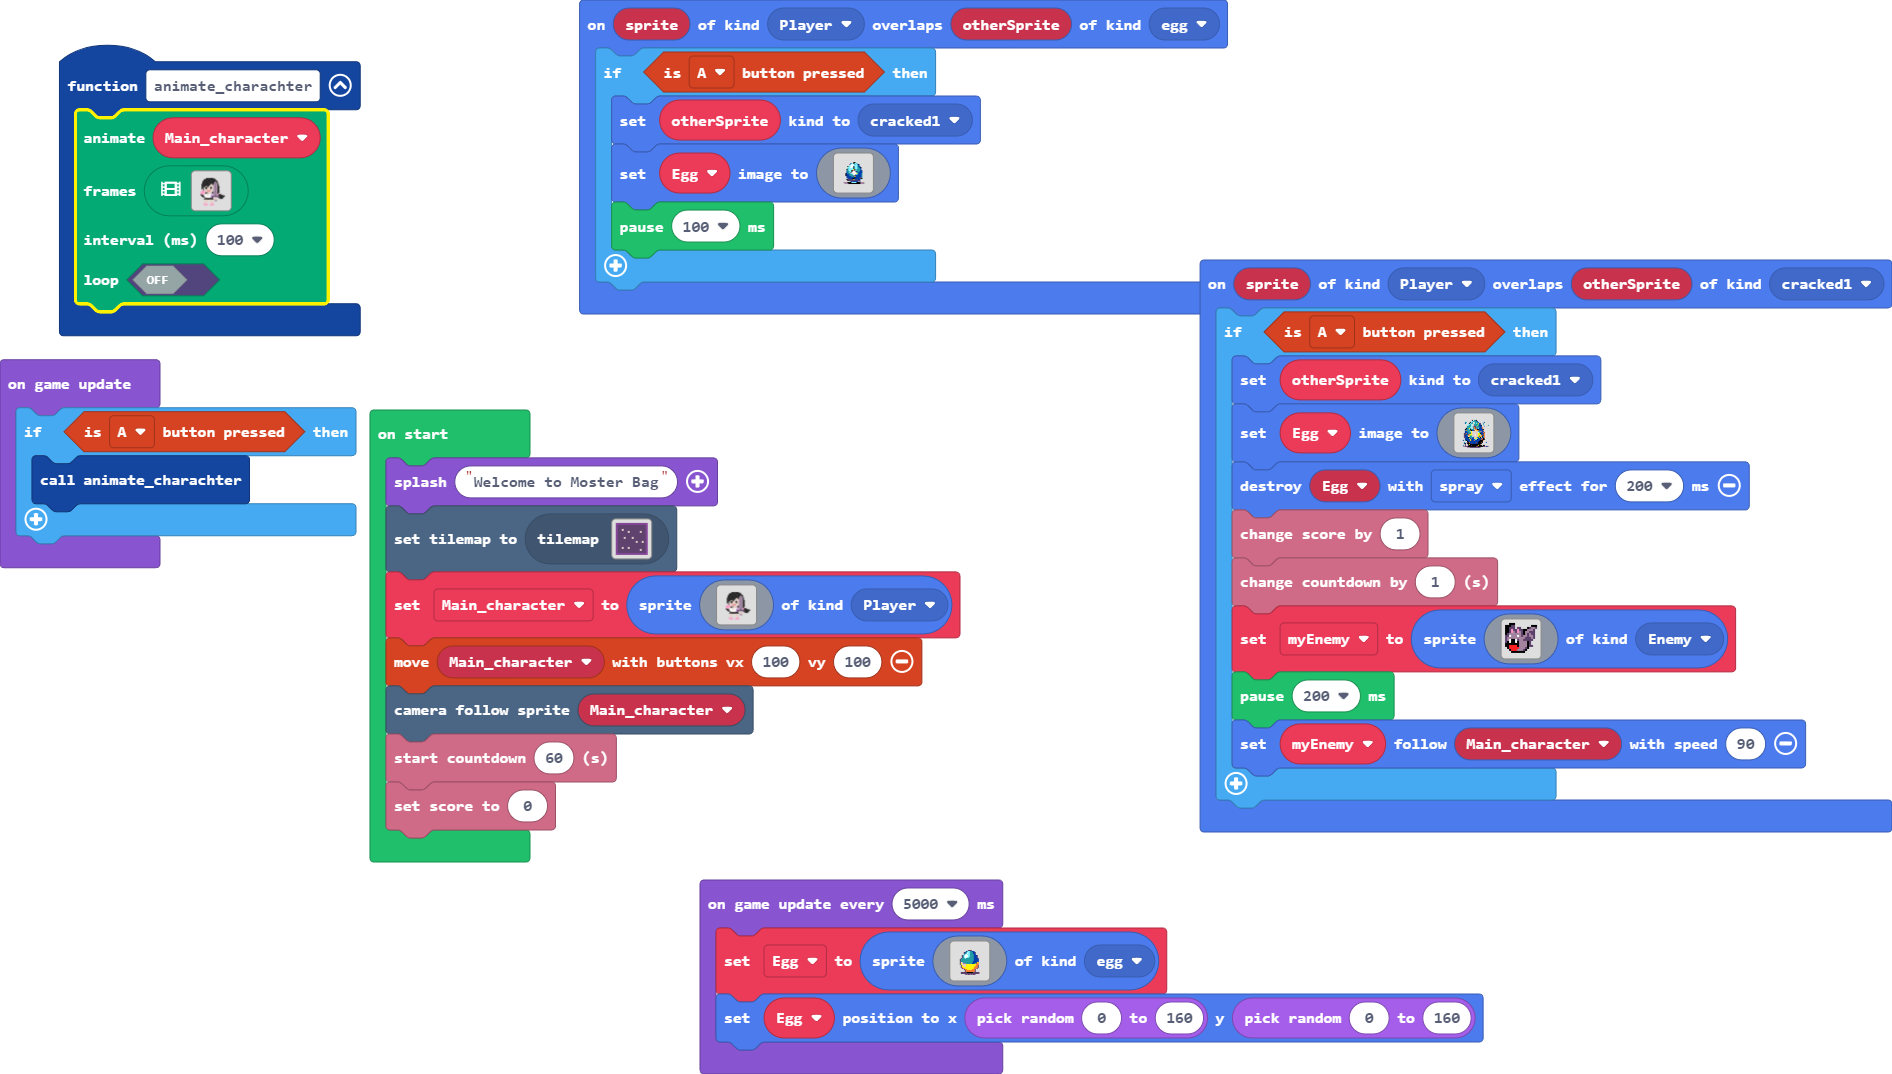
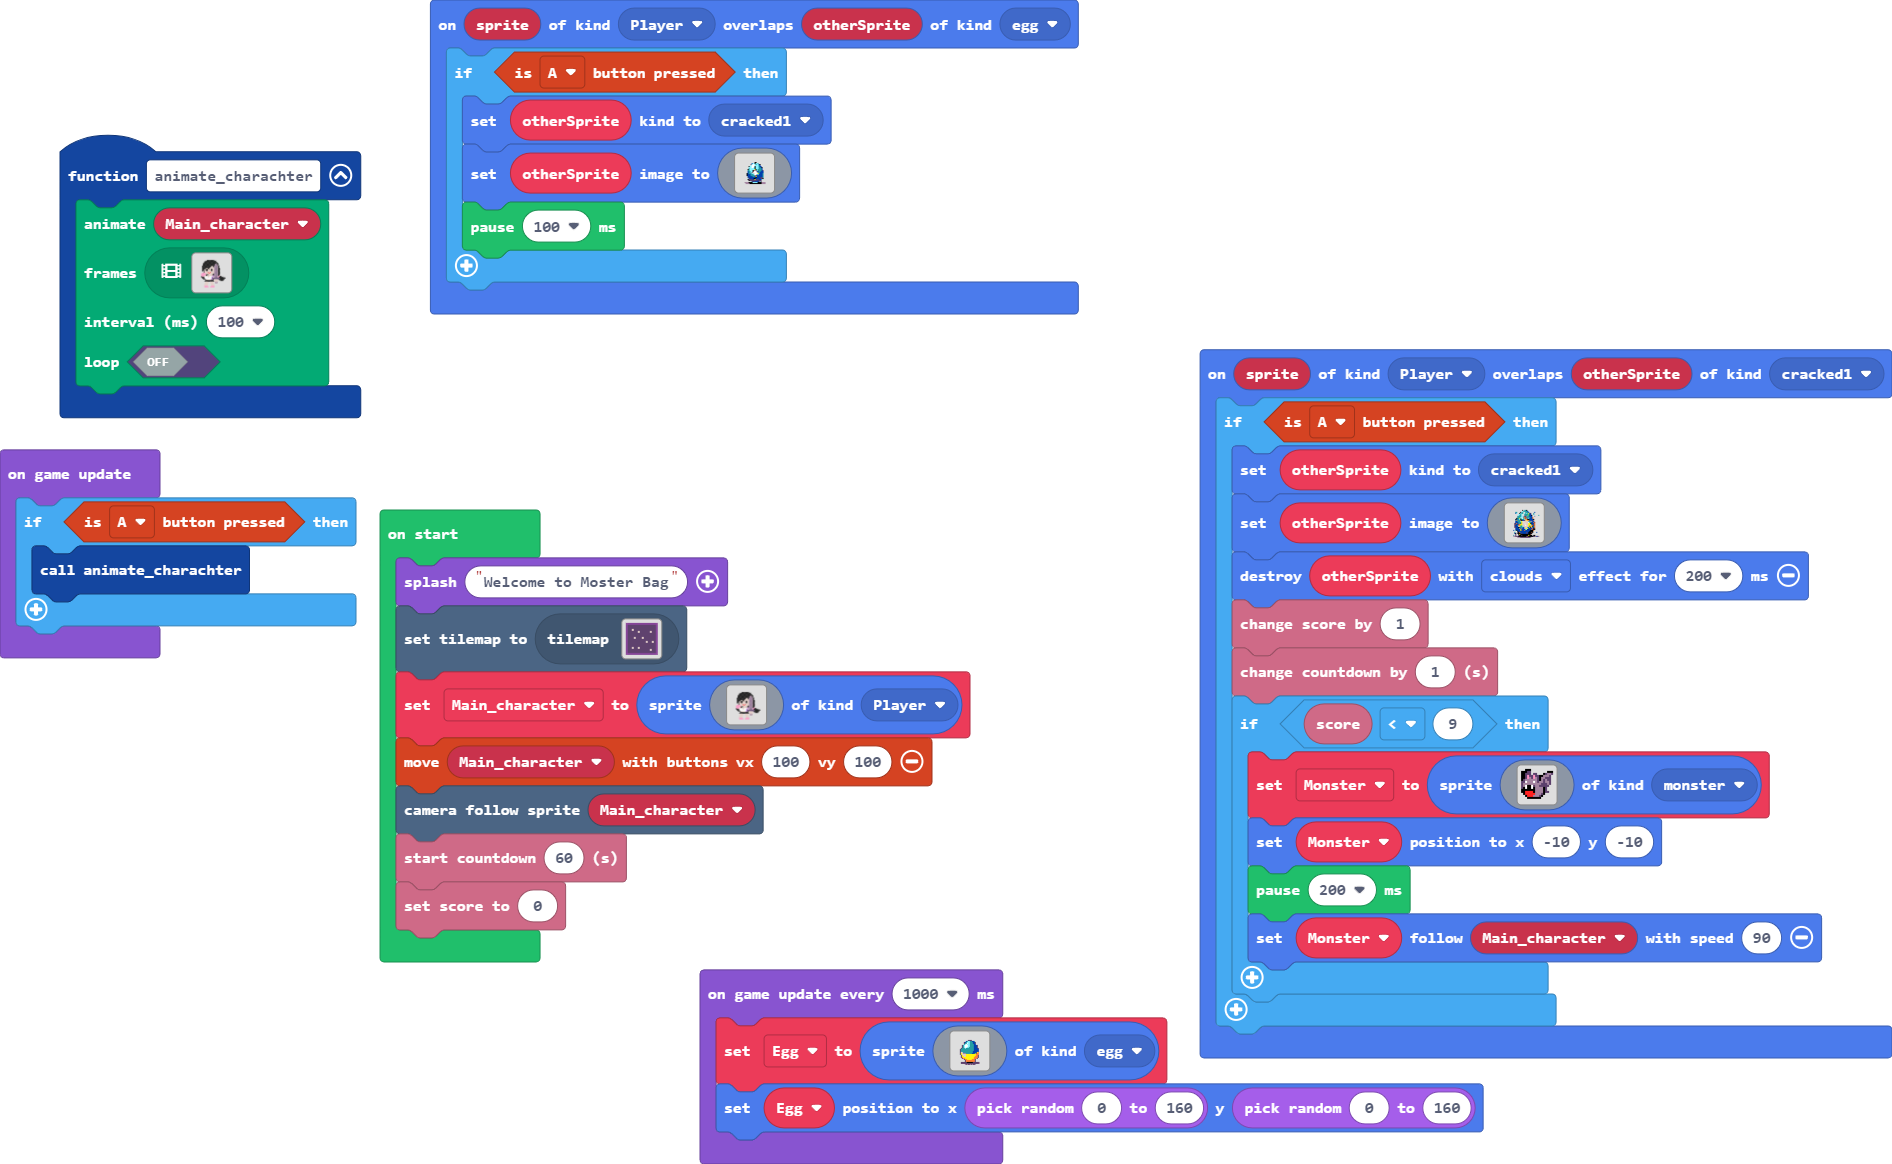
fixes

diff --git a/main.ts b/main.ts
@@ -1,34 +1,38 @@
 namespace SpriteKind {
     export const egg = SpriteKind.create()
     export const cracked1 = SpriteKind.create()
+    export const monster = SpriteKind.create()
 }
 sprites.onOverlap(SpriteKind.Player, SpriteKind.cracked1, function (sprite, otherSprite) {
     if (controller.A.isPressed()) {
         otherSprite.setKind(SpriteKind.cracked1)
-        Egg.setImage(assets.image`crack 2`)
-        sprites.destroy(Egg, effects.spray, 200)
+        otherSprite.setImage(assets.image`crack 2`)
+        sprites.destroy(otherSprite, effects.clouds, 200)
         info.changeScoreBy(1)
         info.changeCountdownBy(1)
-        myEnemy = sprites.create(img`
-            . . f f f . . . . . . . . . . . 
-            f f f c c . . . . . . . . f f f 
-            f f c c c . c c . . . f c b b c 
-            f f c 3 c c 3 c c f f b b b c . 
-            f f c 3 b c 3 b c f b b c c c . 
-            f c b b b b b b c f b c b c c . 
-            c c 1 b b b 1 b c b b c b b c . 
-            c b b b b b b b b b c c c b c . 
-            c b 1 f f 1 c b b c c c c c . . 
-            c f 1 f f 1 f b b b b f c . . . 
-            f f f f f f f b b b b f c . . . 
-            f f 2 2 2 2 f b b b b f c c . . 
-            . f 2 2 2 2 2 b b b c f . . . . 
-            . . f 2 2 2 b b b c f . . . . . 
-            . . . f f f f f f f . . . . . . 
-            . . . . . . . . . . . . . . . . 
-            `, SpriteKind.Enemy)
-        pause(200)
-        myEnemy.follow(Main_character, 90)
+        if (info.score() < 9) {
+            Monster = sprites.create(img`
+                . . f f f . . . . . . . . . . . 
+                f f f c c . . . . . . . . f f f 
+                f f c c c . c c . . . f c b b c 
+                f f c 3 c c 3 c c f f b b b c . 
+                f f c 3 b c 3 b c f b b c c c . 
+                f c b b b b b b c f b c b c c . 
+                c c 1 b b b 1 b c b b c b b c . 
+                c b b b b b b b b b c c c b c . 
+                c b 1 f f 1 c b b c c c c c . . 
+                c f 1 f f 1 f b b b b f c . . . 
+                f f f f f f f b b b b f c . . . 
+                f f 2 2 2 2 f b b b b f c c . . 
+                . f 2 2 2 2 2 b b b c f . . . . 
+                . . f 2 2 2 b b b c f . . . . . 
+                . . . f f f f f f f . . . . . . 
+                . . . . . . . . . . . . . . . . 
+                `, SpriteKind.monster)
+            Monster.setPosition(-10, -10)
+            pause(200)
+            Monster.follow(Main_character, 90)
+        }
     }
 })
 function animate_charachter () {
@@ -165,12 +169,12 @@ function animate_charachter () {
 sprites.onOverlap(SpriteKind.Player, SpriteKind.egg, function (sprite, otherSprite) {
     if (controller.A.isPressed()) {
         otherSprite.setKind(SpriteKind.cracked1)
-        Egg.setImage(assets.image`crack 1`)
+        otherSprite.setImage(assets.image`crack 1`)
         pause(100)
     }
 })
-let myEnemy: Sprite = null
 let Egg: Sprite = null
+let Monster: Sprite = null
 let Main_character: Sprite = null
 game.splash("Welcome to Moster Bag")
 tiles.setCurrentTilemap(tilemap`level2`)
@@ -225,7 +229,7 @@ game.onUpdate(function () {
         animate_charachter()
     }
 })
-game.onUpdateInterval(5000, function () {
+game.onUpdateInterval(1000, function () {
     Egg = sprites.create(assets.image`uncracked`, SpriteKind.egg)
     Egg.setPosition(randint(0, 160), randint(0, 160))
 })
